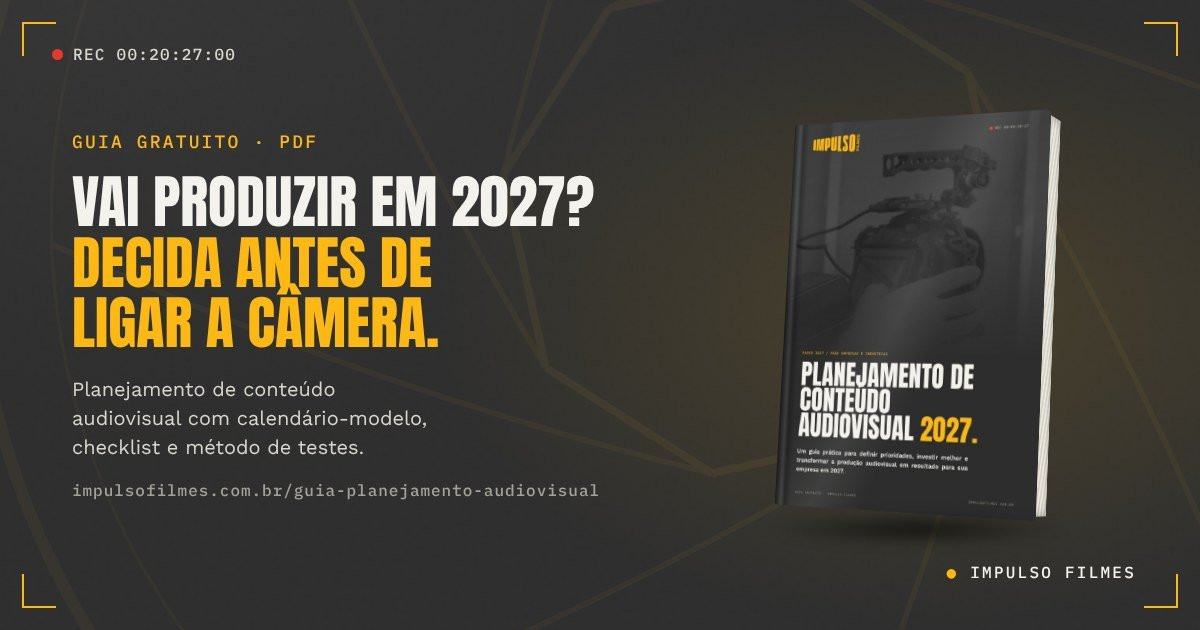
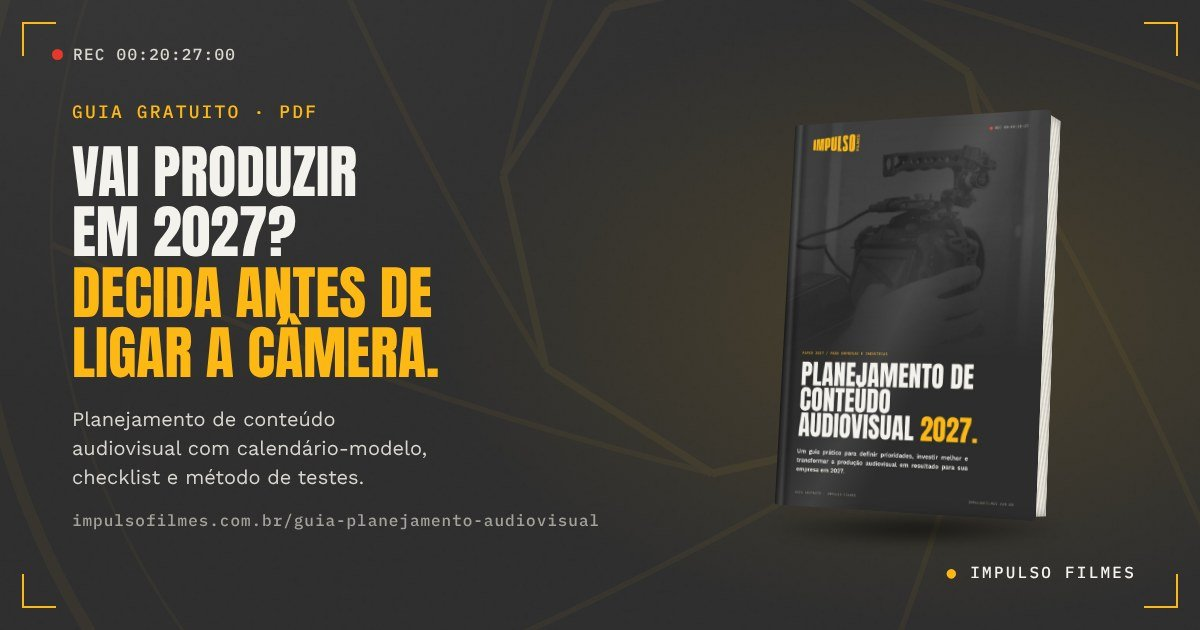
Título com "em 2027?" na segunda linha (página e imagens de divulgação)
Claude-Session: https://claude.ai/code/session_01SGBA6gHqWrHQdPf3NpZQUW

Changed region(s): [[0.0617, 0.1508, 0.4933, 0.7238], [0.0617, 0.8143, 0.4933, 0.8444], [0.0617, 0.754, 0.4933, 0.7841]]

diff --git a/index.html b/index.html
@@ -27,8 +27,8 @@
 <link rel="preconnect" href="https://fonts.googleapis.com">
 <link rel="preconnect" href="https://fonts.gstatic.com" crossorigin>
 <link href="https://fonts.googleapis.com/css2?family=Anton&family=IBM+Plex+Mono:wght@400;500&family=Work+Sans:ital,wght@0,400;0,500;0,600;1,400&display=swap" rel="stylesheet">
-<link rel="stylesheet" href="base.css?v=10210237">
-<link rel="stylesheet" href="lp.css?v=10210237">
+<link rel="stylesheet" href="base.css?v=10210240">
+<link rel="stylesheet" href="lp.css?v=10210240">
 <script type="application/ld+json">
 {
   "@context": "https://schema.org",
@@ -87,7 +87,7 @@
 
   <div class="hero-inner">
     <div class="hero-copy">
-      <h1><span class="eyebrow">Guia planejamento audiovisual 2027</span> Vai produzir em 2027? <em>Decida antes de ligar a câmera.</em></h1>
+      <h1><span class="eyebrow">Guia planejamento audiovisual 2027</span> Vai produzir<br> em 2027? <em>Decida antes de ligar a câmera.</em></h1>
       <p class="lead">Baixe o guia gratuito da Impulso Filmes e aprenda a montar um planejamento de conteúdo audiovisual alinhado aos objetivos do seu negócio, com calendário-modelo, checklist e método de testes.</p>
       <div class="actions">
         <a class="btn solid" href="#guia">Quero receber o guia</a>
@@ -367,7 +367,7 @@
 
 <div class="cursor" aria-hidden="true"></div><div class="dot" aria-hidden="true"></div>
 
-<script src="config.js?v=10210237"></script>
-<script src="lp.js?v=10210237"></script>
+<script src="config.js?v=10210240"></script>
+<script src="lp.js?v=10210240"></script>
 </body>
 </html>

diff --git a/obrigado.html b/obrigado.html
@@ -9,8 +9,8 @@
 <link rel="preconnect" href="https://fonts.googleapis.com">
 <link rel="preconnect" href="https://fonts.gstatic.com" crossorigin>
 <link href="https://fonts.googleapis.com/css2?family=Anton&family=IBM+Plex+Mono:wght@400;500&family=Work+Sans:ital,wght@0,400;0,500;0,600;1,400&display=swap" rel="stylesheet">
-<link rel="stylesheet" href="base.css?v=10210237">
-<link rel="stylesheet" href="lp.css?v=10210237">
+<link rel="stylesheet" href="base.css?v=10210240">
+<link rel="stylesheet" href="lp.css?v=10210240">
 </head>
 <body class="thanks-page">
 
@@ -73,7 +73,7 @@
 
 <div class="cursor" aria-hidden="true"></div><div class="dot" aria-hidden="true"></div>
 
-<script src="config.js?v=10210237"></script>
-<script src="lp.js?v=10210237"></script>
+<script src="config.js?v=10210240"></script>
+<script src="lp.js?v=10210240"></script>
 </body>
 </html>

diff --git a/divulgacao/arte.html b/divulgacao/arte.html
@@ -77,7 +77,7 @@
   <p class="recline"><i></i>REC 00:20:27:00</p>
   <div class="txt">
     <p class="eyebrow">Guia gratuito · PDF</p>
-    <h1>Vai produzir em 2027? <em>Decida antes de ligar a câmera.</em></h1>
+    <h1>Vai produzir<br> em 2027? <em>Decida antes de ligar a câmera.</em></h1>
     <p class="sub">Planejamento de conteúdo audiovisual com calendário-modelo, checklist e método de testes.</p>
     <span class="chip">Baixe grátis →</span>
     <p class="url">impulsofilmes.com.br/guia-planejamento-audiovisual</p>
